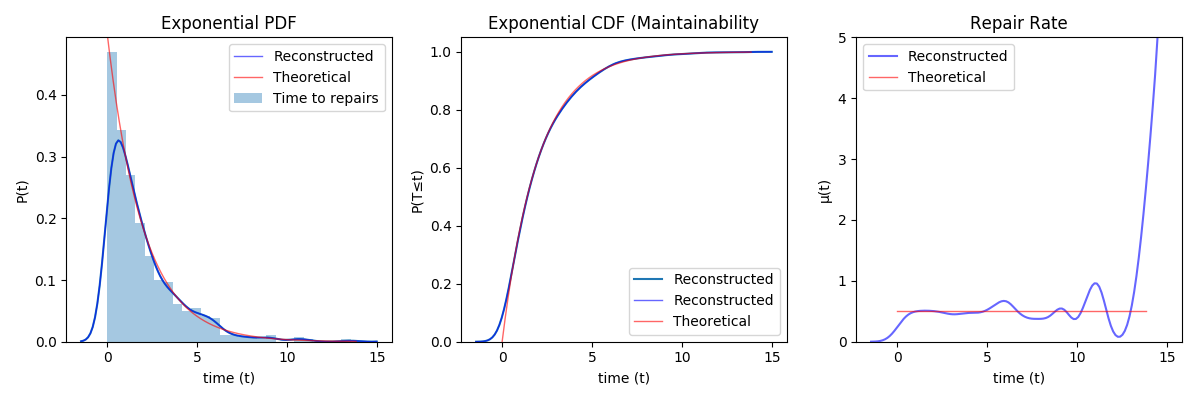
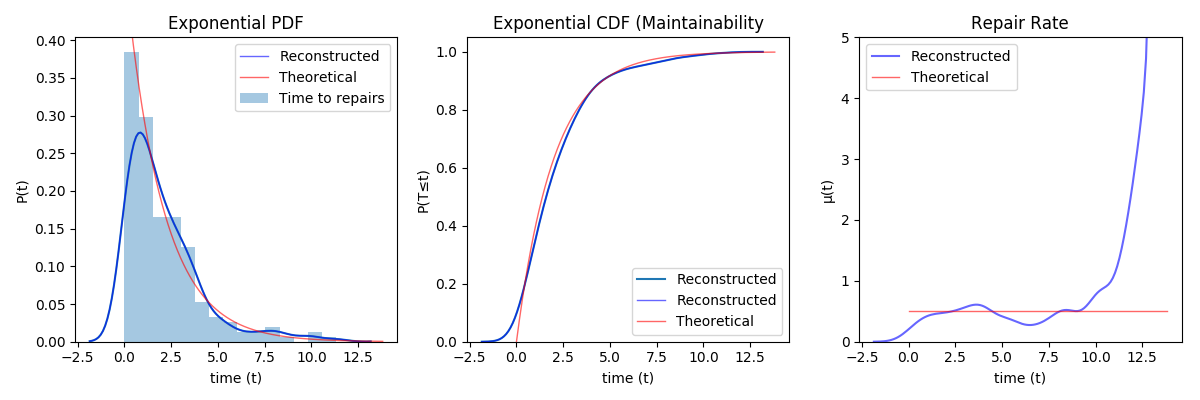
Made the layout for the dashboard better.

diff --git a/templates/index.html b/templates/index.html
@@ -9,36 +9,43 @@
     <body>
 
         <h1>Fault Tree Analysis</h1>
-        <p>Metric</p>
-        <div id="metric_bar">
-            <form action="">
-                    <input type="radio" name="metric" value="Reliability">Reliability<br>
-                    <input type="radio" name="metric" value="Maintainability">Maintainability<br>
-            </form>
-        </div>
-        <p>Event</p>
-        <div id="events_bar">
-            <form action="">
-                {% for event in orignal_events %}
-                    <input type="radio" name="events" value="{{ event.name }}">{{ event.name }}<br>
-                {% endfor %}
-            </form>
-        </div>
+
         <div id="original_fault_tree">
+            <h2>Original Fault Tree</h2>
             <img src="/static/images/Original_FT.png" alt="Original Fault Tree">
 
         </div>
         <div id="reconstructed_fault_tree">
+            <h2>Reconstructed Fault Tree</h2>
             <img src="/static/images/Reconstructed_FT.png" alt="Reconstructed Fault Tree">
 
         </div>
 
         <div id="minimal_cut_sets">
+            <h3>Minimal Cut Sets</h3>
             <ul>
                 {% for set in mcs %}
                 <li>{{ set }} </li>
                 {% endfor %}
             </ul>
+        </div>
+
+        <div id="event_board">
+            <p>Event</p>
+            <div id="events_bar">
+                <form action="">
+                    {% for event in orignal_events %}
+                        <input type="radio" name="events" value="{{ event.name }}">{{ event.name }}<br>
+                    {% endfor %}
+                </form>
+            </div>
+            <p>Metric</p>
+            <div id="metric_bar">
+                <form action="">
+                    <input type="radio" name="metric" value="Reliability">Reliability<br>
+                    <input type="radio" name="metric" value="Maintainability">Maintainability<br>
+                </form>
+            </div>
         </div>
 
         <div id="event_metrics">
@@ -72,9 +79,8 @@
             </table>
             <p>Operational Availability</p>
             <p id="oper_avail"></p>
-            <img src="/static/images/basic_event_1_Reliability.png" id="plot" alt="plot">
         </div>
-
+        <img src="/static/images/basic_event_1_Reliability.png" id="plot" alt="plot">
         <script type="text/javascript" src="/static/js/script.js">
         </script>
     </body>

diff --git a/static/css/style.css b/static/css/style.css
@@ -1,15 +1,67 @@
 #original_fault_tree{
-    border: 6px solid red;
-    /*
-    float: right;
-    */
+    /*border: 6px solid red;*/
+    text-align: center;
+    float: left;
+    text-align: center;
+    border-right: 4px dotted black;
+    margin-left: 10px;
+    padding-right: 10px;
 }
 
 #reconstructed_fault_tree{
-    border: 6px solid blue;
-    /*float: right;*/
+    /*border: 6px solid blue;*/
+    text-align: center;
+    float: left;
+    margin-left: 10px;
 }
 
-#metric_bar{
+#minimal_cut_sets{
+    clear: left;
+    /*float: center;
+    margin: auto;
+    width: 50%;*/
+}
 
+#minimal_cut_sets h3{
+    float: left;
+}
+
+#minimal_cut_sets ul{
+    float: left;
+}
+
+li{
+    display: inline;
+    padding-right: 10px;
+}
+
+#event_metrics{
+    float: left;
+
+}
+#event_board{
+    float: left;
+    max-width: 160px;
+    clear: left;
+    margin-left: 20px;
+    margin-right: 20px;
+    /*border: 4px solid green;*/
+
+}
+
+#original_fault_tree img{
+    width: 650px;
+
+}
+#reconstructed_fault_tree img{
+    width: 650px;
+
+}
+#plot{
+    margin-top: 40px;
+    clear: left;
+    float: left;
+    /*max-width: 1300px;
+    width: 90%;*/
+    height: 360px;
 }

diff --git a/main.py b/main.py
@@ -11,7 +11,7 @@ app = Flask(__name__)
 def index():
     print('STARTING')
     cwd = os.getcwd()
-    SIZE = 500
+    SIZE = 200
     # CHECK WHEN SIZE IS REALLY LOW AND MAKE SURE TO EXPORT DISTRIBUTION WHICH ARE UNIDENTIFIED
     # THINK OF MAKING PLOT SHOWING AVAILABILITY OF EVENTS, UP AND DOWN
     linspace = np.linspace(0, 100, 1000)
